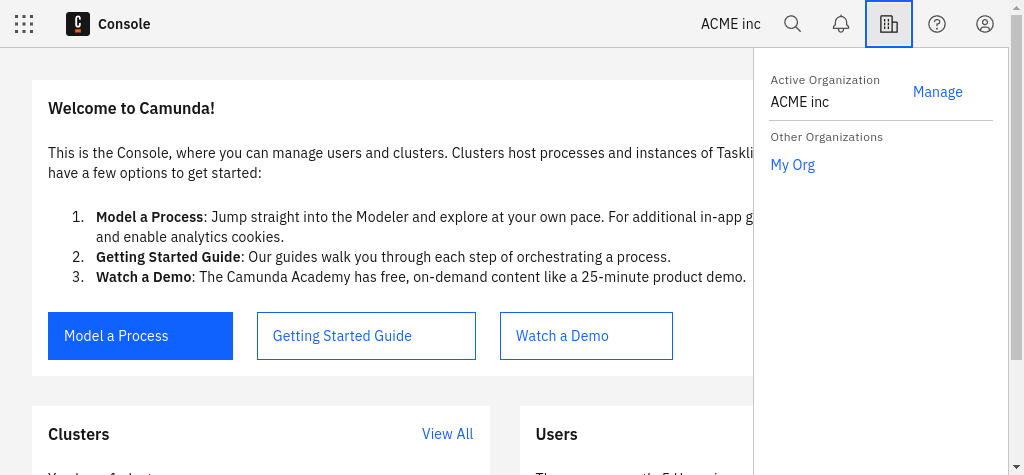
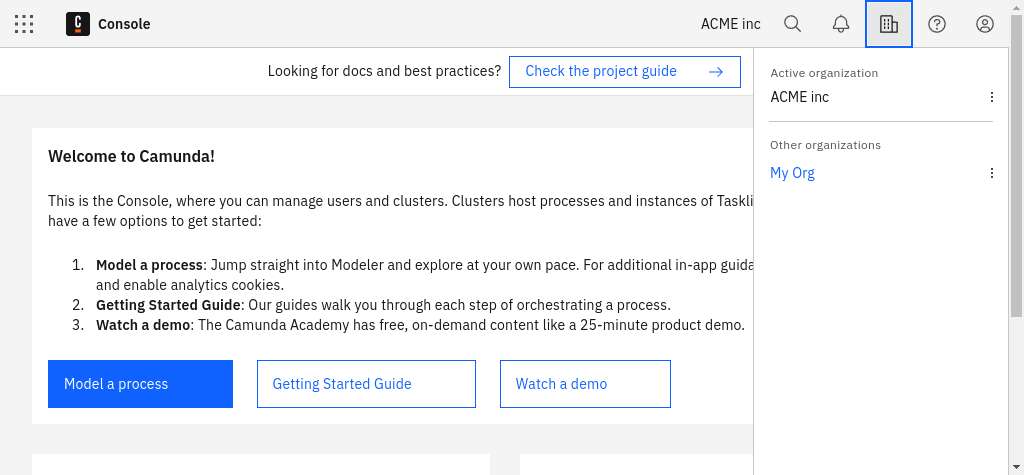
console: self-service leave organisation

diff --git a/docs/components/console/manage-organization/organization-settings.md b/docs/components/console/manage-organization/organization-settings.md
@@ -8,6 +8,8 @@ Organization management can be accessed via the **Open Organizations** icon in t
 
 ![Open Organizations icon in navigation bar](./img/avatar-menue.png)
 
+Using the context menu of each organisation, you can navigate into the organisation management as well as leaving the organisation.
+
 ### Overview
 
 The overview provides a summary of the organization, including:
